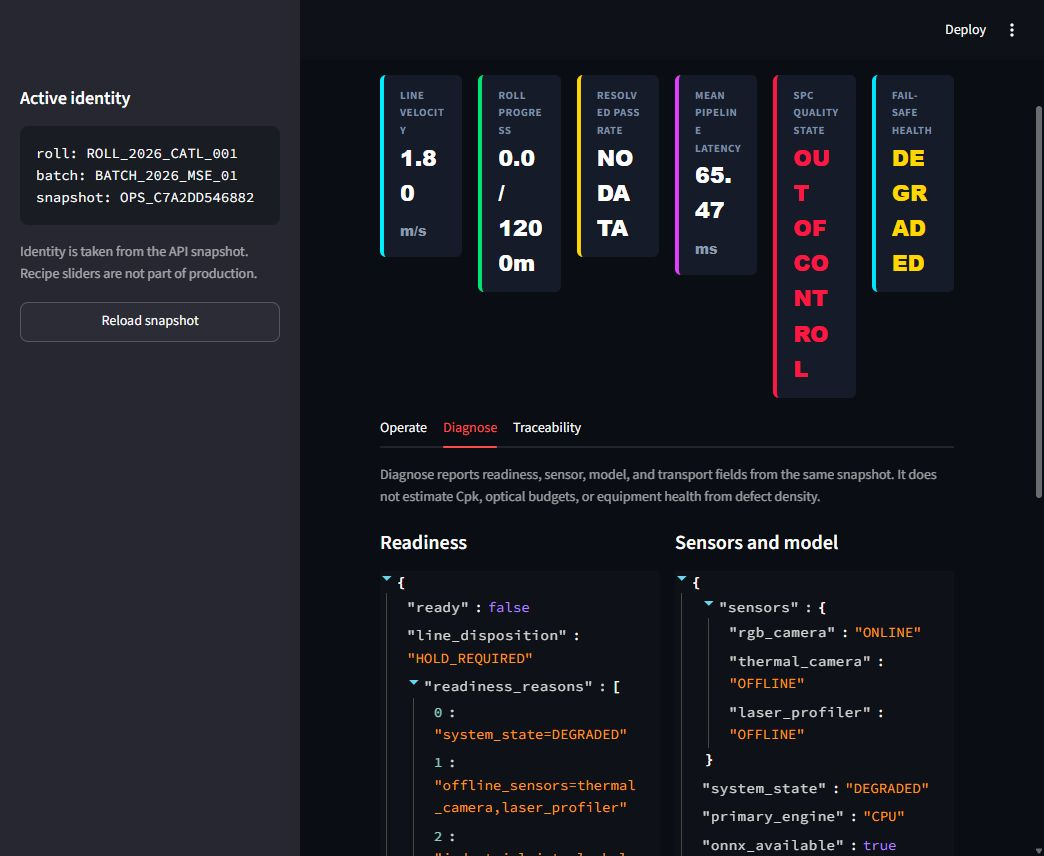
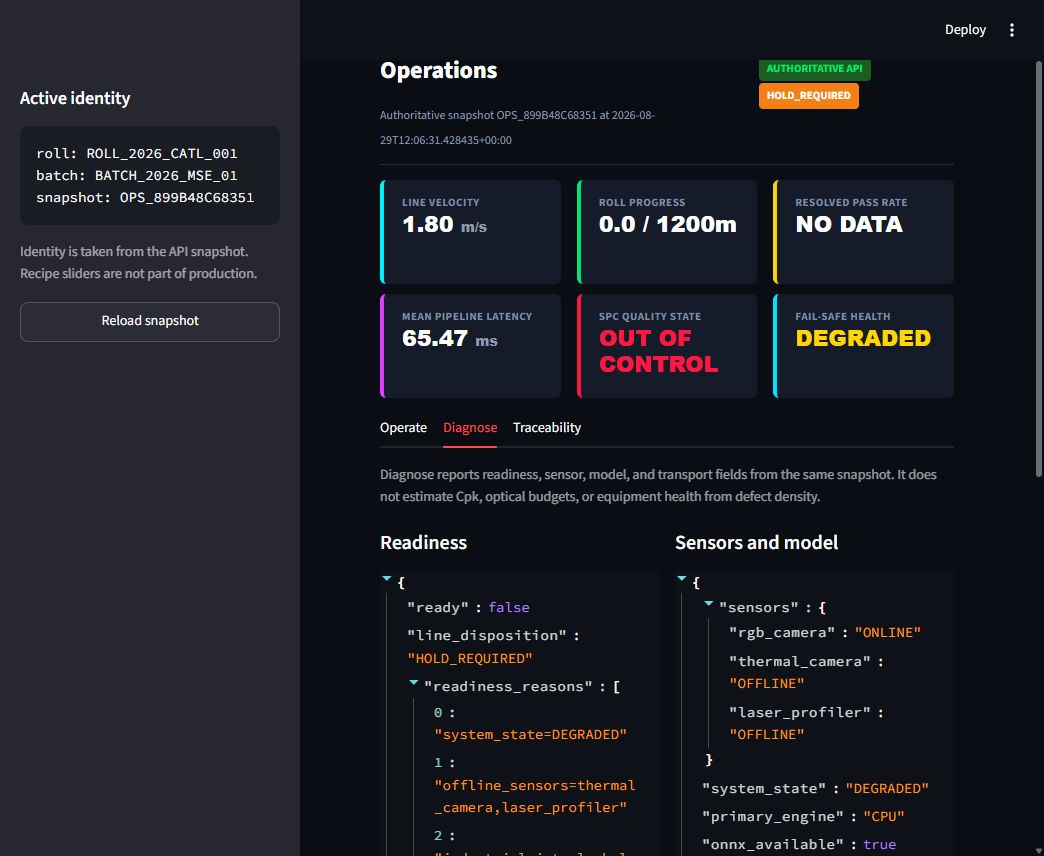
Improve dashboard portfolio captures and remove synthetic hero

diff --git a/dashboard/app.py b/dashboard/app.py
@@ -43,8 +43,10 @@ st.markdown("""
         background: #151B28;
         border-left: 4px solid #00F2FE;
         border-radius: 6px;
-        padding: 12px 16px;
+        padding: 14px 18px;
         margin-bottom: 10px;
+        min-height: 104px;
+        box-sizing: border-box;
     }
     .metric-label {
         font-size: 11px;
@@ -56,8 +58,11 @@ st.markdown("""
     .metric-val {
         font-size: 22px;
         font-weight: 800;
+        line-height: 1.18;
         color: #FFFFFF;
         font-family: 'SF Pro Display', -apple-system, sans-serif;
+        overflow-wrap: normal;
+        word-break: normal;
     }
     .status-optimal { color: #00E676; }
     .status-warning { color: #FFD600; }

diff --git a/dashboard/production_console.py b/dashboard/production_console.py
@@ -118,7 +118,7 @@ def render_production_console(snapshot: Dict[str, Any], api_client: Any) -> None
     )
     sys_class = "status-optimal" if sys_state == "OPTIMAL" else "status-warning"
 
-    m1, m2, m3, m4, m5, m6 = st.columns(6)
+    m1, m2, m3 = st.columns(3)
     with m1:
         _metric_card(
             "Line Velocity",
@@ -138,6 +138,7 @@ def render_production_console(snapshot: Dict[str, Any], api_client: Any) -> None
             "#FFD600",
             pass_class,
         )
+    m4, m5, m6 = st.columns(3)
     with m4:
         _metric_card(
             "Mean Pipeline Latency",

diff --git a/docs/portfolio/README.md b/docs/portfolio/README.md
@@ -1,13 +1,5 @@
 # SecureCoating-Vision portfolio media
 
-## Hero visual
-
-`securecoating-vision-hero.png` is an AI-generated conceptual render for portfolio presentation. It is not a photograph of a deployed factory line and must be labelled accordingly.
-
-Suggested caption:
-
-> Conceptual visualization of a fail-closed computer-vision inspection cell for roll-to-roll electrode coating. The implemented prototype combines FastAPI inference, PLC-oriented interlocks, signed traceability, and an authoritative operations dashboard.
-
 ## Runtime screenshots
 
 For evidence screenshots, use the live Docker dashboard at `http://127.0.0.1:8501/` and keep the following context visible:
@@ -15,5 +7,6 @@ For evidence screenshots, use the live Docker dashboard at `http://127.0.0.1:850
 - **`runtime-operate.png`:** `HOLD_REQUIRED`, readiness blockers, PLC transport state, and the recent-inspection row.
 - **`runtime-diagnose.png`:** authoritative readiness plus sensor/model state; do not crop out `DEGRADED` or offline hardware.
 - **`runtime-traceability.png`:** the four retained defect records and the unverified-calibration warning. The live page continues below the captured viewport with the signed certificate fields.
+- **`runtime-certificate.png`:** inspection disposition counts, signed payload digest/HMAC, explicit `UNVERIFIED` grade, and metric provenance.
 
-Do not present the generated hero as implementation evidence. Do not present a university, laboratory, or company logo unless permission and the precise relationship can be documented.
+These screenshots are direct captures of the running Docker dashboard. Do not present a university, laboratory, or company logo unless permission and the precise relationship can be documented.
